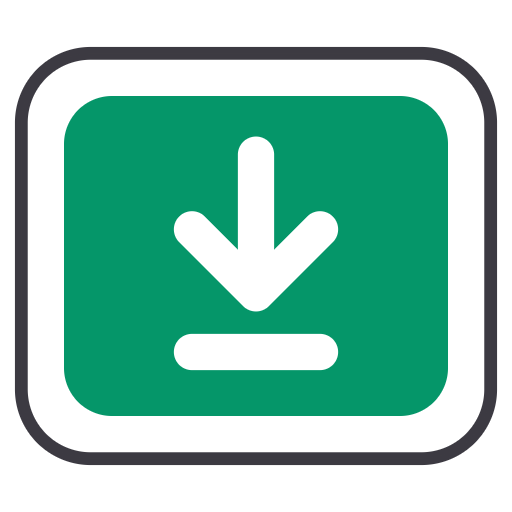
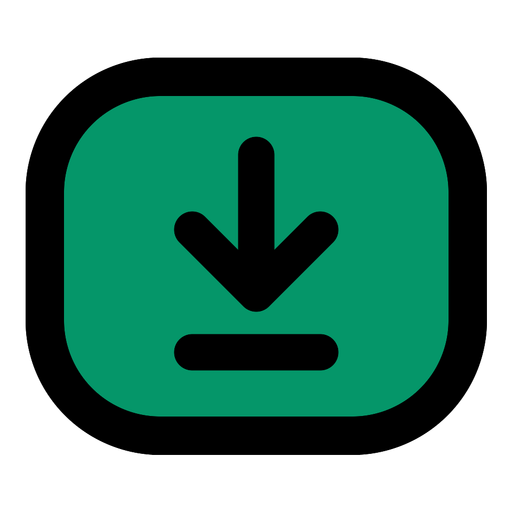
feat: improve font loading and styling
- Set Cairo as the default font family
- Optimize dynamic font loading with batching support
- Update launcher icons

diff --git a/src/App.tsx b/src/App.tsx
@@ -803,18 +803,34 @@ export default function App() {
     triggerToast(t.newLinkToast, t.platformCaptured(initial.platform));
   };
 
-  // Load Google fonts dynamically
+  // Load Google fonts reliably (single font on boot, or batched group on picker open)
   const loadedFontsRef = useRef<Record<string, boolean>>({});
+  const loadedGroupsRef = useRef<Record<string, boolean>>({});
+
+  const fontQuerySpec = (fontName: string) =>
+    'family=' +
+    encodeURIComponent(fontName).replace(/%20/g, '+') +
+    (ONE.has(fontName) ? '' : ':wght@400;600;700');
+
   const loadFont = (fontName: string) => {
     if (!fontName || loadedFontsRef.current[fontName]) return;
     loadedFontsRef.current[fontName] = true;
     const link = document.createElement('link');
     link.rel = 'stylesheet';
-    link.href =
-      'https://fonts.googleapis.com/css2?family=' +
-      fontName.replace(/ /g, '+') +
-      (ONE.has(fontName) ? '' : ':wght@400;700') +
-      '&display=swap';
+    link.href = `https://fonts.googleapis.com/css2?${fontQuerySpec(fontName)}&display=swap`;
+    document.head.appendChild(link);
+  };
+
+  const loadFontGroup = (groupKey: string, fonts: string[]) => {
+    if (loadedGroupsRef.current[groupKey]) return;
+    loadedGroupsRef.current[groupKey] = true;
+    fonts.forEach((f) => {
+      loadedFontsRef.current[f] = true;
+    });
+    const query = fonts.map(fontQuerySpec).join('&');
+    const link = document.createElement('link');
+    link.rel = 'stylesheet';
+    link.href = `https://fonts.googleapis.com/css2?${query}&display=swap`;
     document.head.appendChild(link);
   };
 
@@ -824,7 +840,7 @@ export default function App() {
       loadFont(fontFamily);
       document.documentElement.style.setProperty(
         '--ff',
-        `"${fontFamily}", system-ui, -apple-system, "Segoe UI", Tahoma, sans-serif`
+        `"${fontFamily}", "Cairo", system-ui, -apple-system, "Segoe UI", Tahoma, sans-serif`
       );
     } else {
       document.documentElement.style.removeProperty('--ff');
@@ -1839,11 +1855,11 @@ export default function App() {
                       setFOpen(!fOpen);
                       if (!fOpen) {
                         setSOpen(false);
-                        FG.forEach((g) => g[1].forEach(loadFont));
+                        FG.forEach((g) => loadFontGroup(g[0], g[1]));
                       }
                     }}
                   >
-                    <span style={fontFamily ? { fontFamily: `'${fontFamily}', sans-serif` } : {}}>
+                    <span style={fontFamily ? { fontFamily: `'${fontFamily}', "Cairo", sans-serif` } : {}}>
                       {fontFamily || t.defaultLabel}
                     </span>
                     <span style={{ display: 'inline-flex' }}>
@@ -1873,14 +1889,18 @@ export default function App() {
                             <button
                               key={fontName}
                               className={`fi ${fontFamily === fontName ? 'on' : ''}`}
-                              style={{ fontFamily: `'${fontName}', sans-serif` }}
+                              style={{ fontFamily: `'${fontName}', "Cairo", sans-serif` }}
                               onClick={() => {
                                 setFontFamily(fontName);
                                 setFOpen(false);
                               }}
                             >
                               <span>{fontName}</span>
-                              {gi === 0 && <span dir="rtl">أبجد هوز</span>}
+                              {gi === 0 ? (
+                                <span dir="rtl">أبجد هوز</span>
+                              ) : (
+                                <span dir="ltr">Aa Bb 123</span>
+                              )}
                             </button>
                           ))}
                         </React.Fragment>

diff --git a/src/i18n.ts b/src/i18n.ts
@@ -123,7 +123,7 @@ export const UI_TEXT = {
     fontSize: 'حجم الخط',
     defaultLabel: 'الافتراضي',
     arabicFonts: 'خطوط عربية',
-    latinFonts: 'خطوط لاتينية',
+    latinFonts: 'خطوط لاتينية (للإنجليزية والأرقام)',
     appLanguage: 'لغة التطبيق',
     languageHint: 'يتم تطبيق اللغة المختارة فوراً على جميع القوائم ومزايا التحديثات.',
     langArabic: 'العربية',
@@ -328,7 +328,7 @@ export const UI_TEXT = {
     fontStyle: 'Font Family',
     fontSize: 'Font Size',
     defaultLabel: 'Default',
-    arabicFonts: 'Arabic Fonts',
+    arabicFonts: 'Arabic Fonts (Arabic & Latin)',
     latinFonts: 'Latin Fonts',
     appLanguage: 'App Language',
     languageHint: 'Selected language applies immediately across menus and update release notes.',

diff --git a/src/index.css b/src/index.css
@@ -487,6 +487,7 @@
 
 html {
   scroll-padding-top: env(safe-area-inset-top, 0px);
+  font-family: var(--ff, "Cairo", system-ui, -apple-system, "Segoe UI", Tahoma, sans-serif);
 }
 
 * {
@@ -497,9 +498,16 @@ body {
   margin: 0;
   background: var(--bg);
   color: var(--text);
-  font-family: var(--ff, system-ui, -apple-system, "Segoe UI", Tahoma, sans-serif);
+  font-family: var(--ff, "Cairo", system-ui, -apple-system, "Segoe UI", Tahoma, sans-serif);
   line-height: 1.5;
   min-height: 100vh;
+}
+
+button,
+input,
+textarea,
+select {
+  font-family: inherit;
 }
 
 main {
